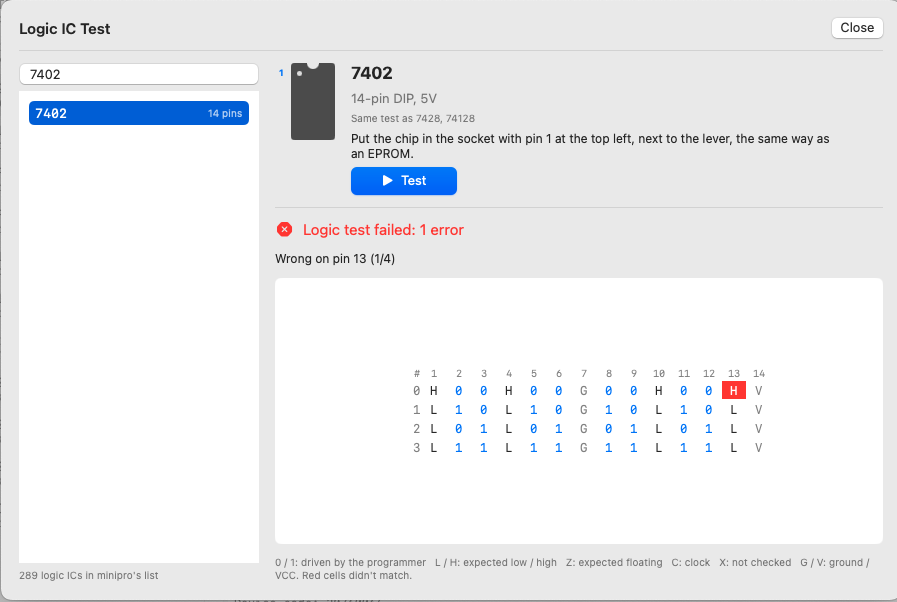
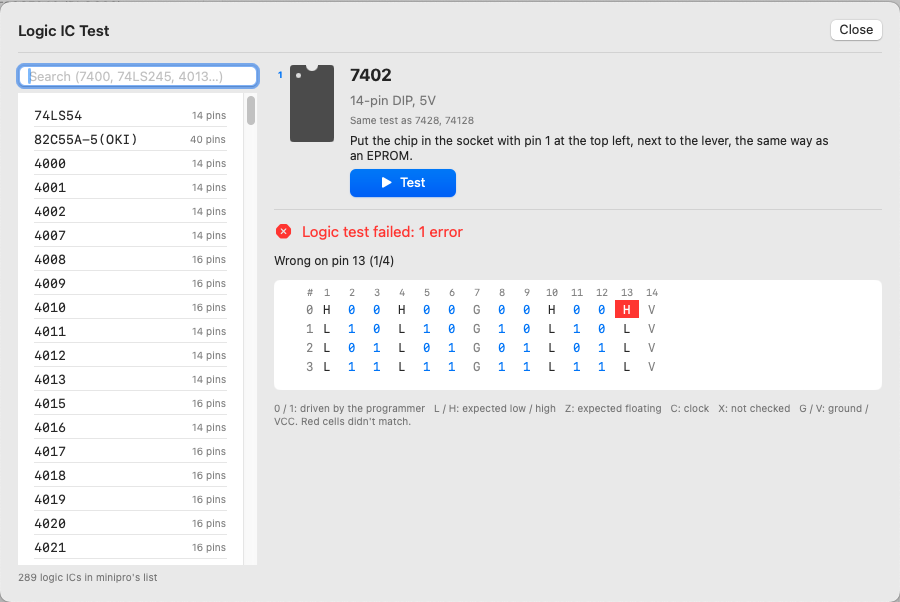
Logic test: explain that a bad input shows up on its gate's output
Claude-Session: https://claude.ai/code/session_01TzK8yppmMLch9aiwp417RL

diff --git a/Sources/LogicTest.swift b/Sources/LogicTest.swift
@@ -291,6 +291,10 @@ struct LogicTestView: View {
                 Text(verbatim: "Wrong on " + list.joined(separator: ", "))
                     .font(.callout)
                     .fixedSize(horizontal: false, vertical: true)
+                Text("Only outputs are checked. A wrong output can also come from an input of the same gate that isn't making contact.")
+                    .font(.caption)
+                    .foregroundColor(.secondary)
+                    .fixedSize(horizontal: false, vertical: true)
             }
             if !r.rows.isEmpty {
                 vectorTable(r, pins: chip.pins)

diff --git a/README.md b/README.md
@@ -145,9 +145,11 @@ Chip size starts at the size of the chip in the current preset. If a part is sma
 
 **Logic Test…** at the top right tests 74 and 4000 series chips, about 290 of them, with the test vectors that come with minipro. Pick the chip, put it in the socket with pin 1 at the top left next to the lever, and press Test. Every vector runs once with pull-ups and once with pull-downs, so an output that's stuck or not connected at all gets caught too.
 
-When something's wrong, the window says which pins failed and in how many vectors, and the table marks every cell that didn't match in red. Here I bent pin 13 of a 7402 so it barely touched the socket:
+When something's wrong, the window says which pins failed and in how many vectors, and the table marks every cell that didn't match in red. Here I bent pin 11 of a 7402 out of the socket:
 
 ![Logic test of a 7402 failing on pin 13](docs/logic-test-fail.png)
+
+The red cell is on pin 13, not 11, and that's correct. Pin 11 is an input of the fourth NOR gate and pin 13 is its output. A TTL input that isn't connected floats high, so in the one vector that expects both inputs low, the output comes out low instead of high. Only outputs can be checked, so a red output can mean that pin is bad, or that an input of the same gate isn't making contact.
 
 Only chips in minipro's list can be tested, and they all run at 5V. There's no "guess what this chip is" mode on purpose. Driving the wrong pins of an unknown chip can damage it.
 
